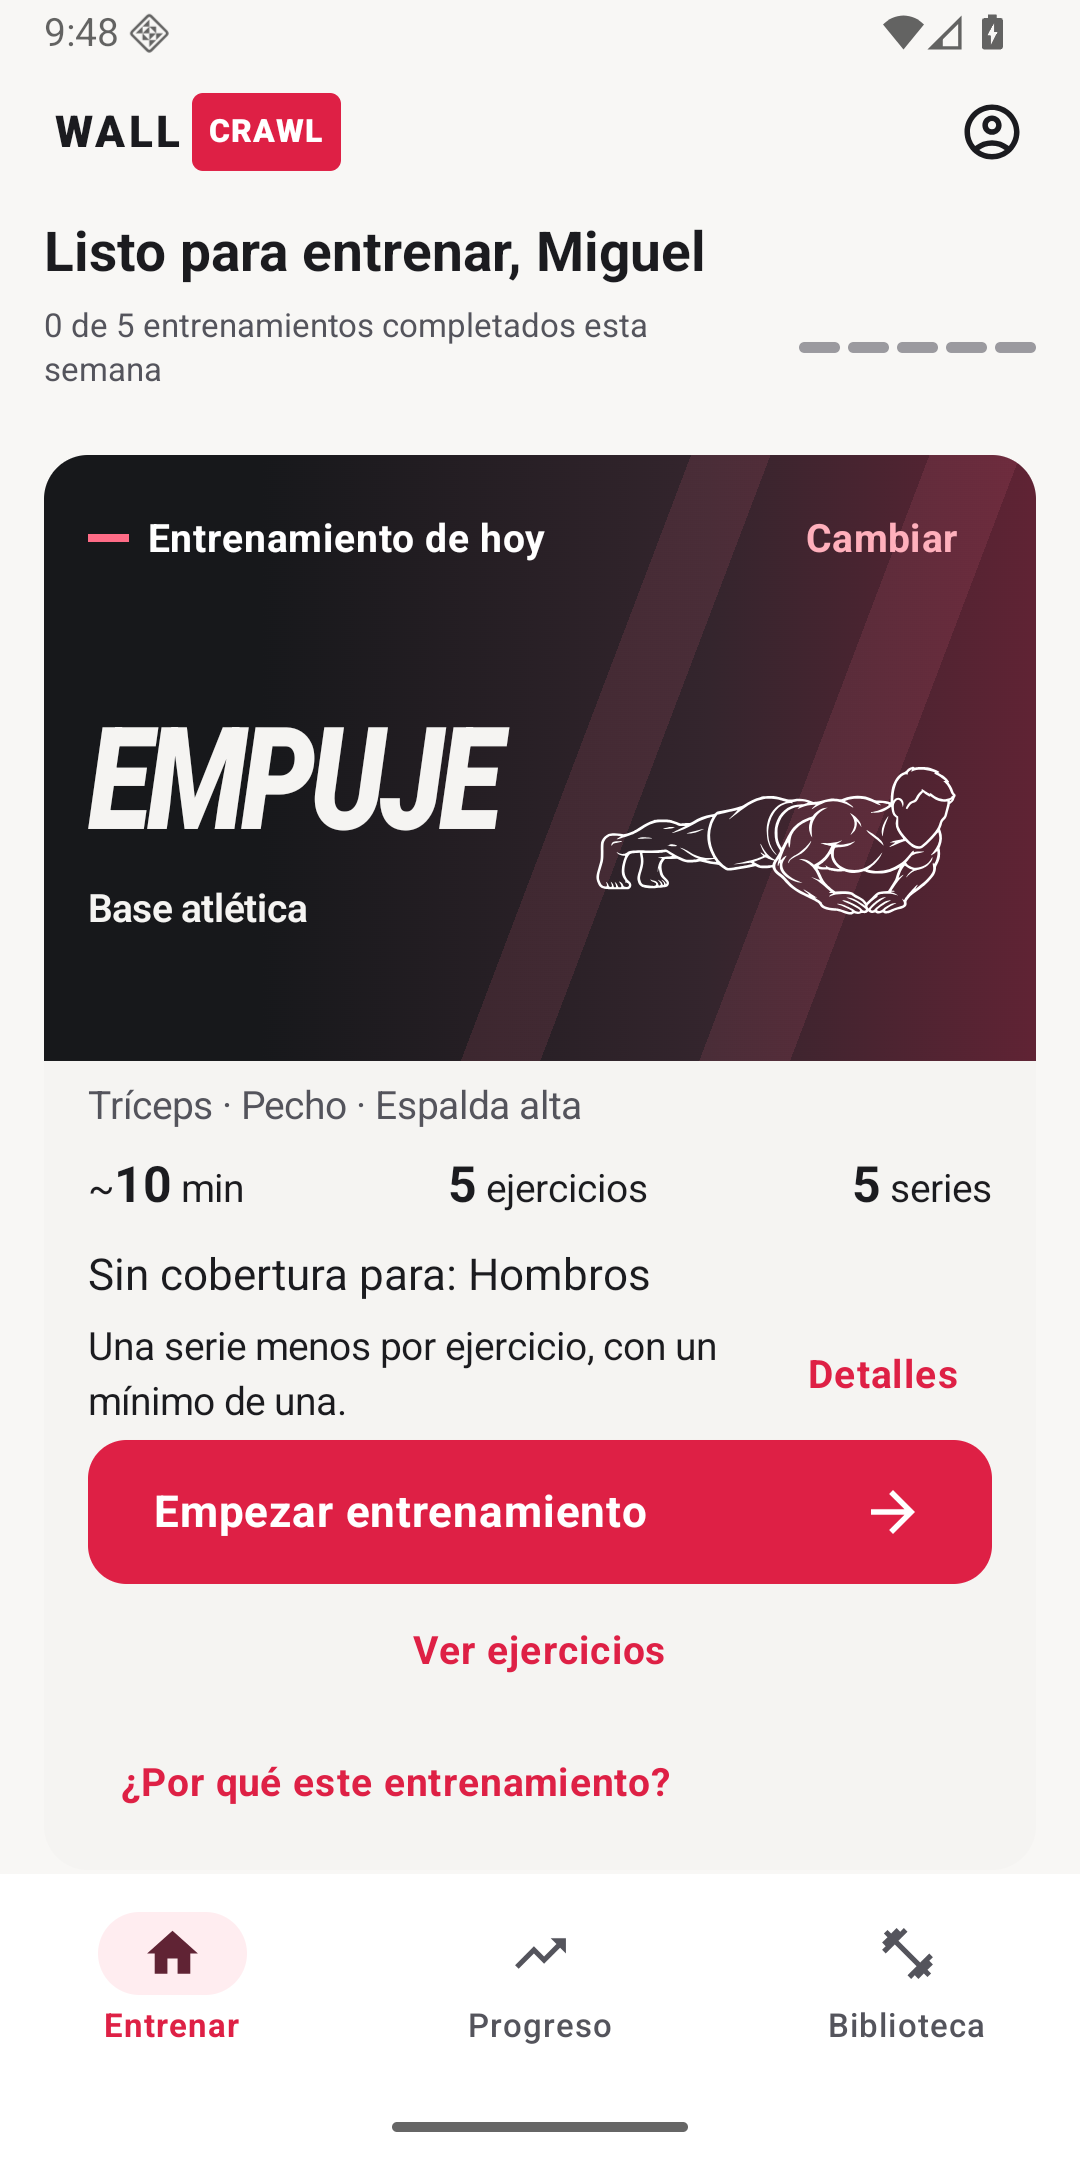
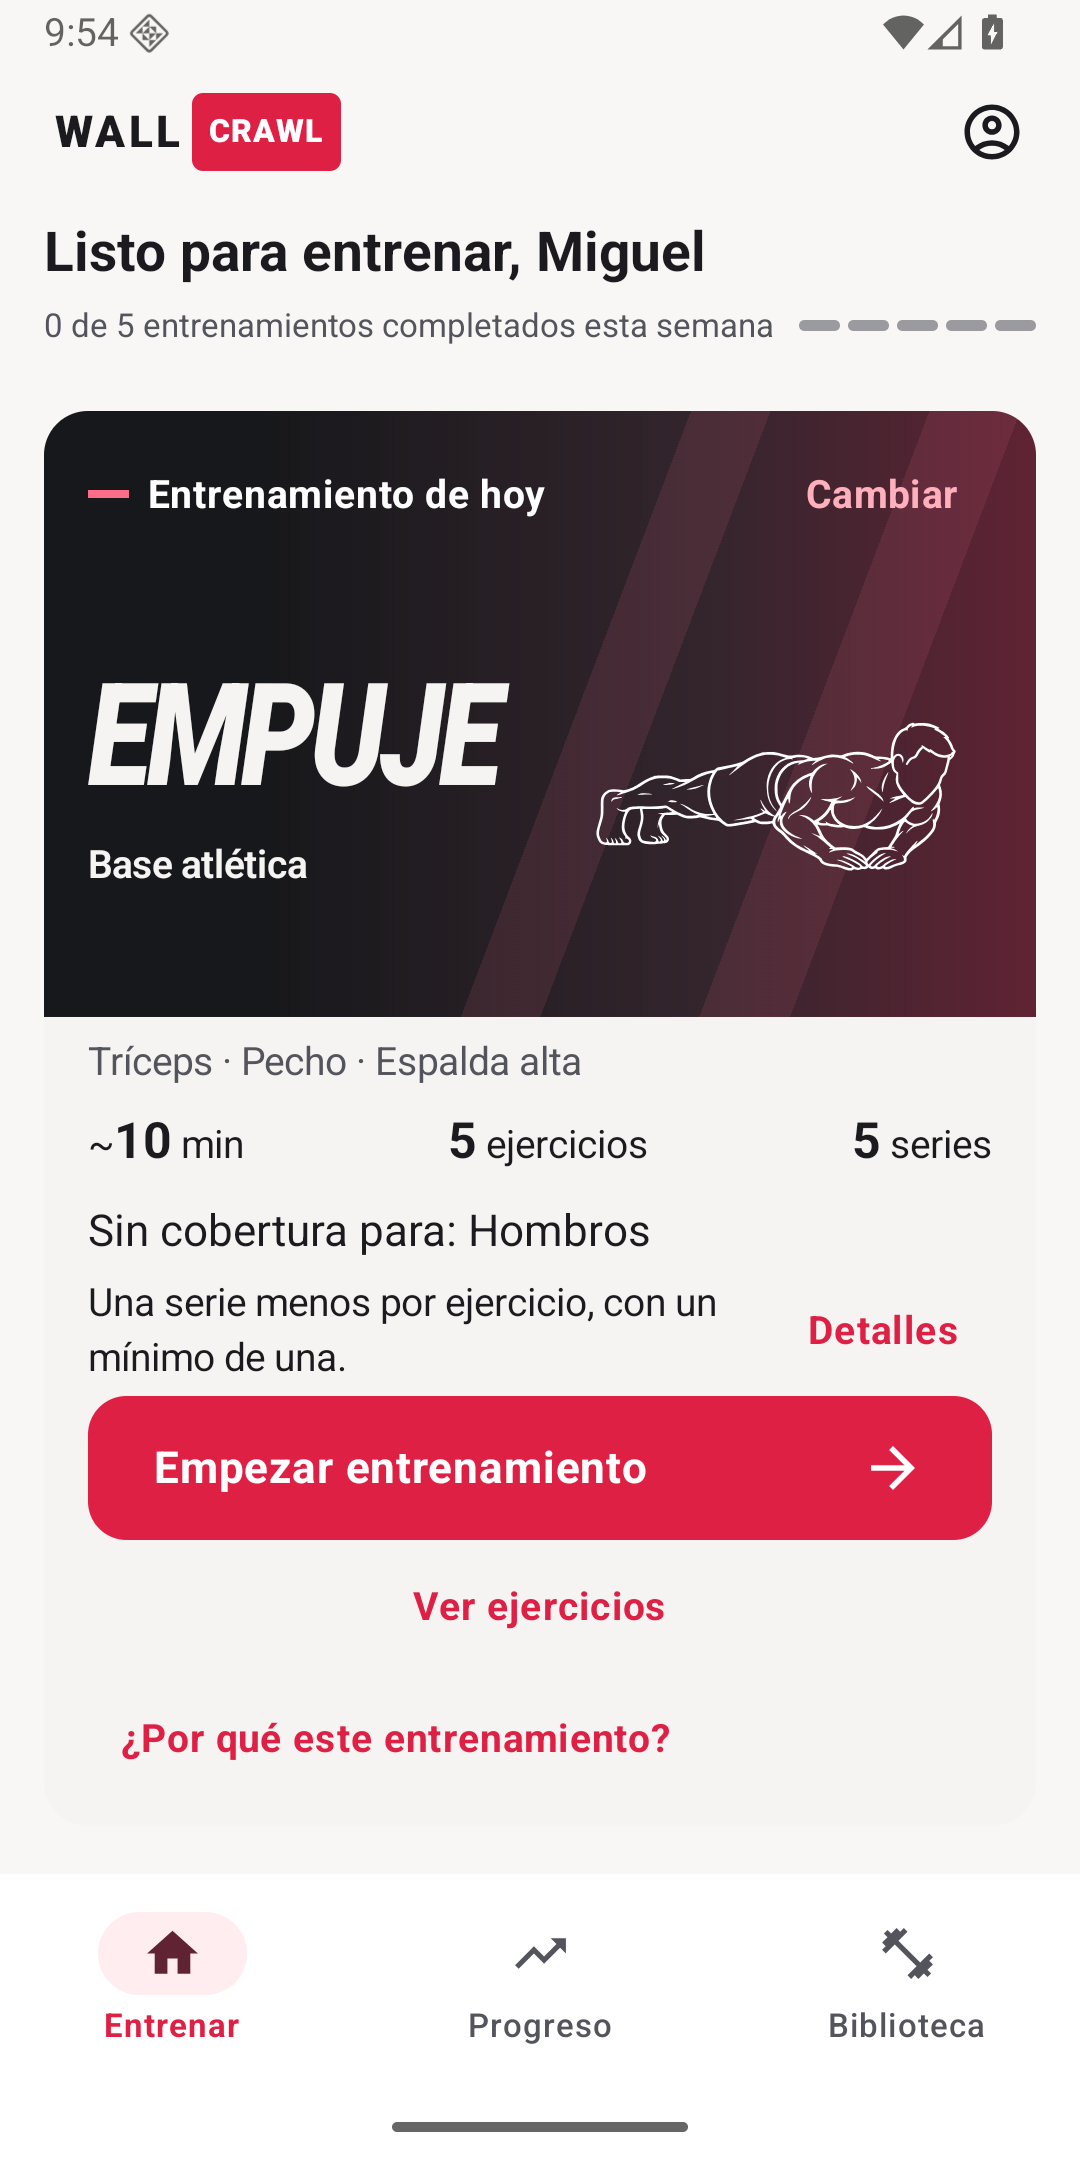
Keep Train stable while poster art loads and let weekly text wrap

diff --git a/app/src/main/java/wallcrawl/elopenmike/com/feature/today/TodayScreen.kt b/app/src/main/java/wallcrawl/elopenmike/com/feature/today/TodayScreen.kt
@@ -160,11 +160,12 @@ internal fun TodayContent(
             if (name.isNotBlank()) Text(stringResource(R.string.today_greeting, name),
                 style = MaterialTheme.typography.headlineSmall, fontWeight = FontWeight.Bold)
             val goal = ready.userProfile.daysPerWeek
-            Row(Modifier.fillMaxWidth().padding(vertical = 8.dp),
-                horizontalArrangement = Arrangement.spacedBy(12.dp), verticalAlignment = Alignment.CenterVertically) {
+            FlowRow(Modifier.fillMaxWidth().padding(vertical = 8.dp),
+                horizontalArrangement = Arrangement.SpaceBetween, verticalArrangement = Arrangement.spacedBy(4.dp),
+                itemVerticalAlignment = Alignment.CenterVertically) {
                 Text(pluralStringResource(R.plurals.today_weekly_progress, goal,
                     LocaleFormatting.formatCount(ready.completedThisWeek, locale), LocaleFormatting.formatCount(goal, locale)),
-                    Modifier.weight(1f), style = MaterialTheme.typography.bodySmall, color = MaterialTheme.colorScheme.onSurfaceVariant)
+                    style = MaterialTheme.typography.bodySmall, color = MaterialTheme.colorScheme.onSurfaceVariant)
                 if (goal in 1..7) Row(horizontalArrangement = Arrangement.spacedBy(3.dp)) {
                     repeat(goal) { index ->
                         Spacer(Modifier.size(width = 15.dp, height = 4.dp).background(

diff --git a/app/src/main/java/wallcrawl/elopenmike/com/core/ui/components/ExerciseIllustration.kt b/app/src/main/java/wallcrawl/elopenmike/com/core/ui/components/ExerciseIllustration.kt
@@ -176,10 +176,13 @@ internal fun ExerciseStill(exerciseId: String, visualProvider: ExerciseVisualPro
     val variant = LocalIllustrationVariant.current
     key(exerciseId, visualProvider, variant) {
         var frame by remember { mutableStateOf<ExerciseVisual?>(null) }
+        var loading by remember { mutableStateOf(true) }
         LaunchedEffect(Unit) {
             frame = visualProvider.framesFor(exerciseId, variant).firstOrNull()
                 ?: visualProvider.framesFor(exerciseId).firstOrNull()
+            loading = false
         }
+        if (loading) Spacer(modifier)
         frame?.let { current ->
             ExerciseFrame(current, LocalExerciseVocabulary.current.exerciseName(exerciseId), modifier) {
                 frame = visualProvider.framesFor(exerciseId).firstOrNull()

diff --git a/app/src/androidTest/java/wallcrawl/elopenmike/com/app/ProgramNavigationTest.kt b/app/src/androidTest/java/wallcrawl/elopenmike/com/app/ProgramNavigationTest.kt
@@ -457,7 +457,8 @@ class ProgramNavigationTest {
         }
         compose.onNodeWithTag("planning-PROGRAM").performClick()
         compose.onNodeWithTag("today-list").performScrollToNode(hasText(text(R.string.program_start_session)))
-        waitText(R.string.program_start_session)
+        val start = hasText(text(R.string.program_start_session)) and hasClickAction() and isEnabled()
+        compose.waitUntil(15_000) { compose.onAllNodes(start).fetchSemanticsNodes().isNotEmpty() }
     }
     private fun text(id: Int) = localized.getString(id)
     private fun waitText(id: Int) { compose.waitUntil(15_000) { compose.onAllNodesWithText(text(id), substring = true).fetchSemanticsNodes().isNotEmpty() } }
